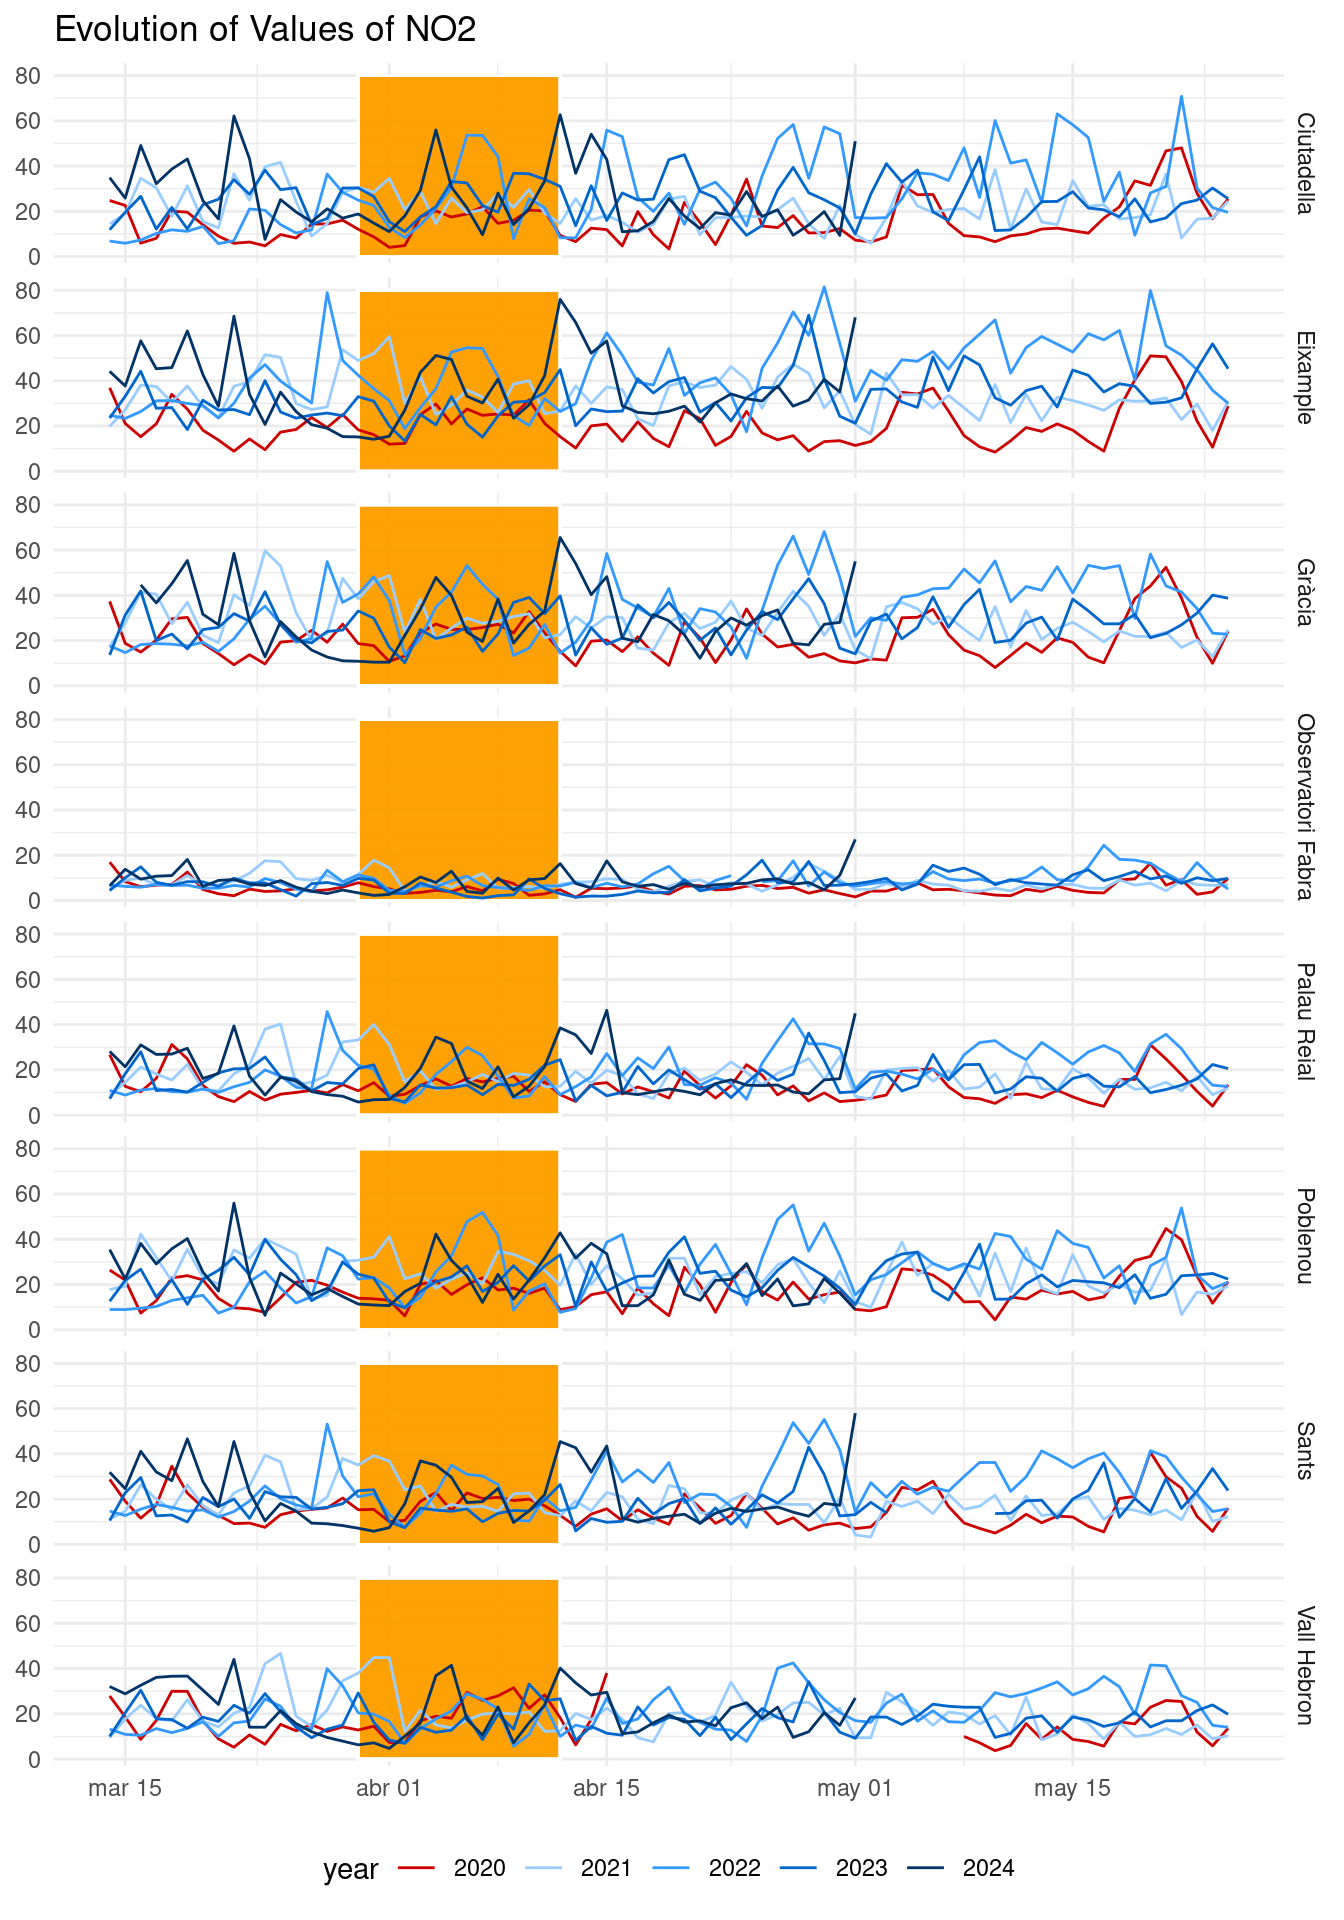
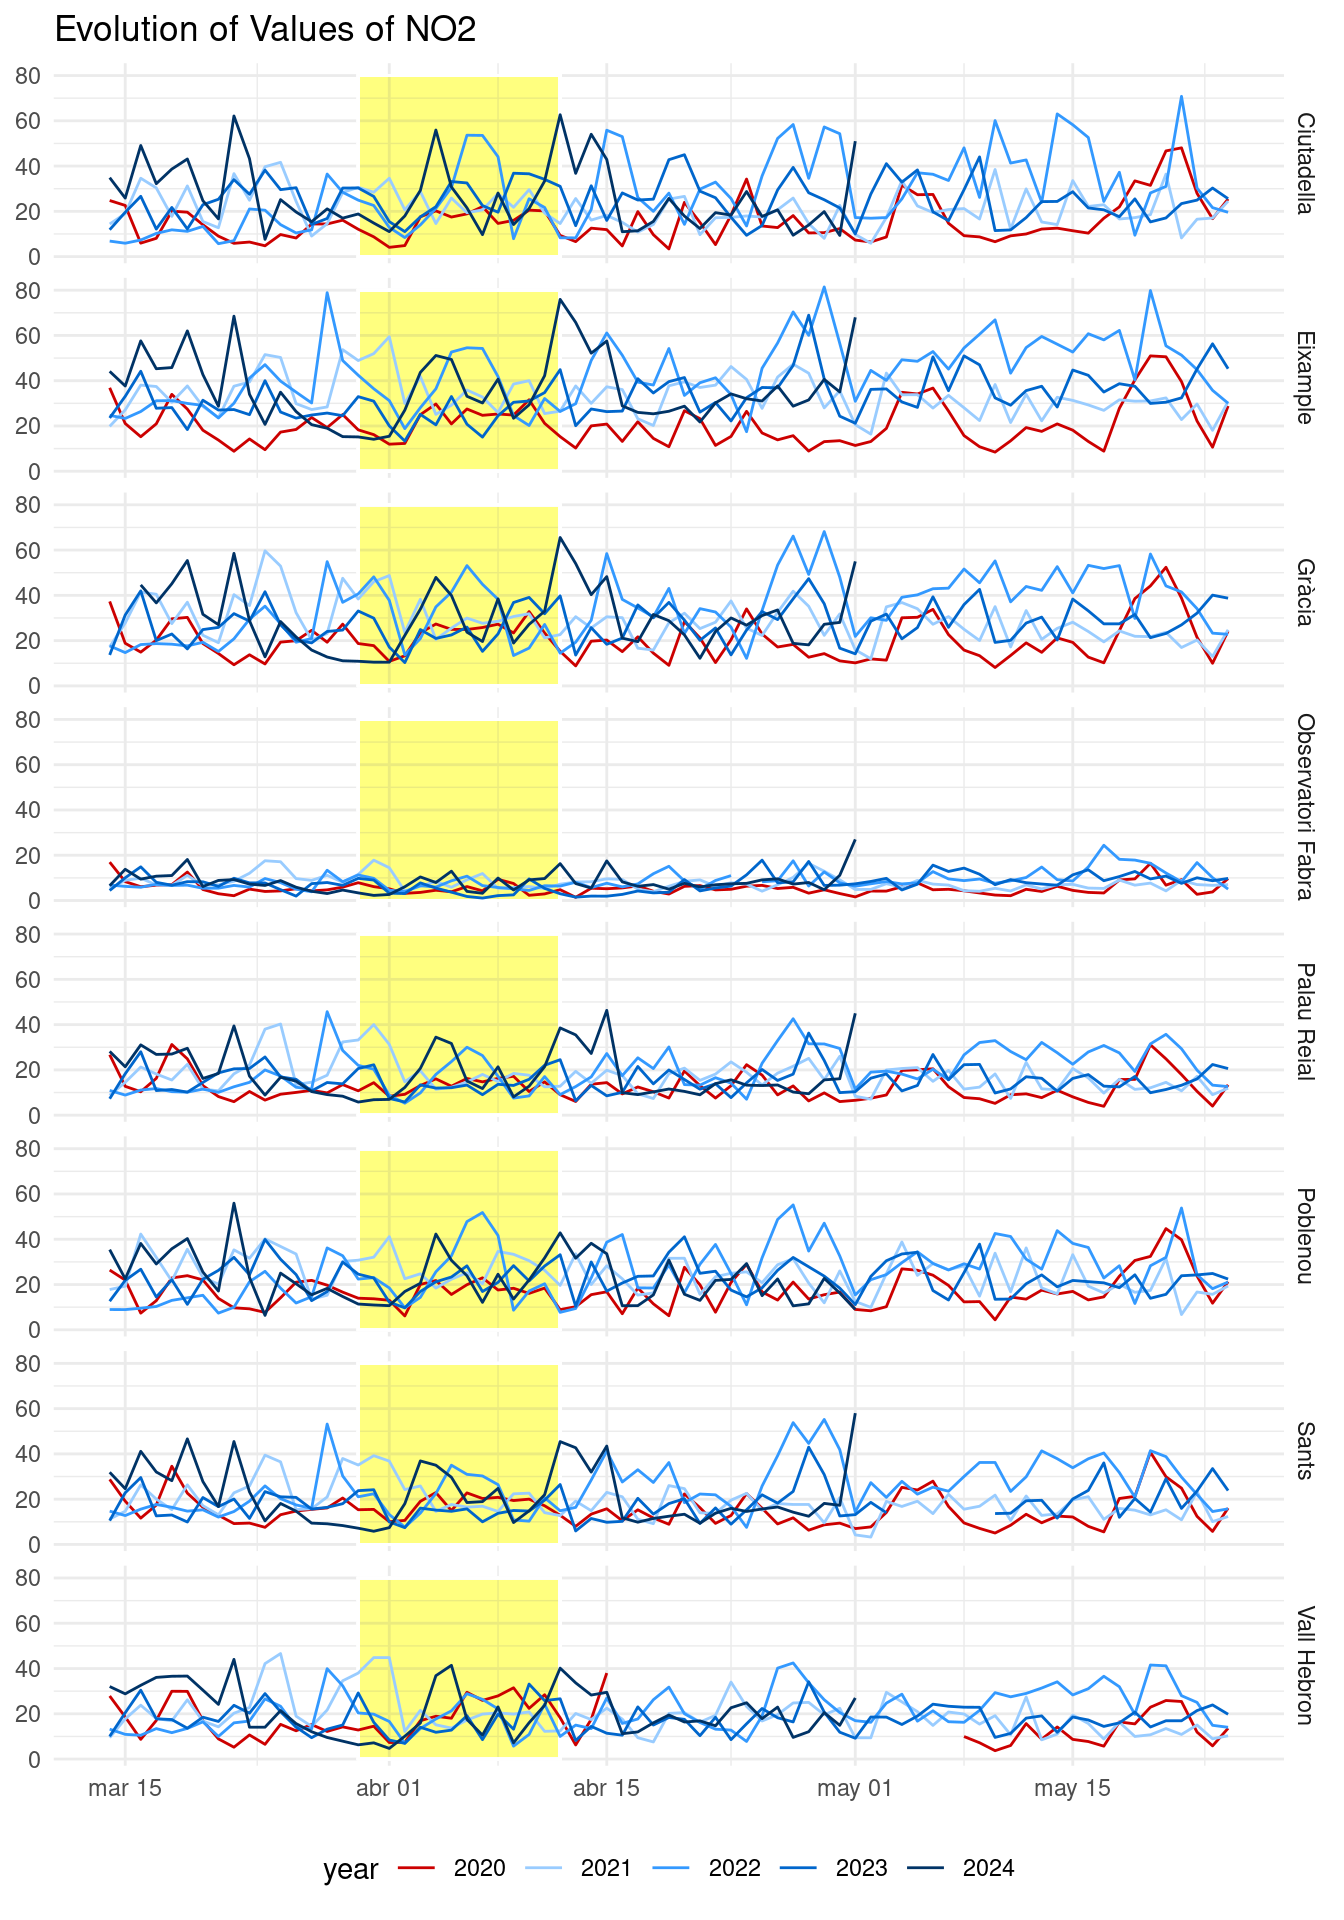
COVID alpha yellow

Changed region(s): [[0.25, 0.0312, 0.4375, 0.9375]]

diff --git a/content/blog/2025-06-15-impact-of-covid-lockdowns-on-barcelona-air-quality/index.html b/content/blog/2025-06-15-impact-of-covid-lockdowns-on-barcelona-air-quality/index.html
@@ -24,7 +24,7 @@ description: Description for the page
 </ul>
 <p>I will be using the tidyverse to generate different visualizations to better understand the effects of COVID lockdowns on Barcelona air quality.</p>
 <pre class="r"><code>library(tidyverse)</code></pre>
-<p>Considering this, I obained a dataset to compare air quality during lockdowns with similar time windows of 2021 to 2024:</p>
+<p>Considering this, I obtained a dataset to compare air quality during lockdowns with similar time windows of 2021 to 2024:</p>
 <ul>
 <li>I retrieved air quality data from measurement stations posted on the Barcelona Open Data website.</li>
 <li>I tidyed data so that each row contains the <code>value</code> measurement of a specific <code>pollutant</code>, from a specific <code>station</code> and from a specific hour.</li>
@@ -61,7 +61,7 @@ description: Description for the page
   filter(pollutant == 10) |&gt;
   ggplot(aes(plot_date, value, color = year)) +
   geom_rect(xmin = as_date(&quot;2025-03-30&quot;), xmax = as_date(&quot;2025-04_12&quot;), ymin = 0, ymax = 60,
-            fill = &quot;orange&quot;, color = &quot;white&quot;, alpha = 0.1) +
+            fill = &quot;yellow&quot;, color = &quot;white&quot;, alpha = 0.005) +
   geom_line() +
   theme_minimal() +
   scale_color_manual(values = c(&quot;#CC0000&quot;, &quot;#99CCFF&quot;, &quot;#3399FF&quot;, &quot;#0066CC&quot;, &quot;#003366&quot;)) +
@@ -74,7 +74,7 @@ description: Description for the page
   filter(pollutant == 8) |&gt;
   ggplot(aes(plot_date, value, color = year)) +
   geom_rect(xmin = as_date(&quot;2025-03-30&quot;), xmax = as_date(&quot;2025-04_12&quot;), ymin = 0, ymax = 80,
-            fill = &quot;orange&quot;, color = &quot;white&quot;, alpha = 0.1) +
+            fill = &quot;yellow&quot;, color = &quot;white&quot;, alpha = 0.005) +
   geom_line() +
   theme_minimal() +
   scale_color_manual(values = c(&quot;#CC0000&quot;, &quot;#99CCFF&quot;, &quot;#3399FF&quot;, &quot;#0066CC&quot;, &quot;#003366&quot;)) +
